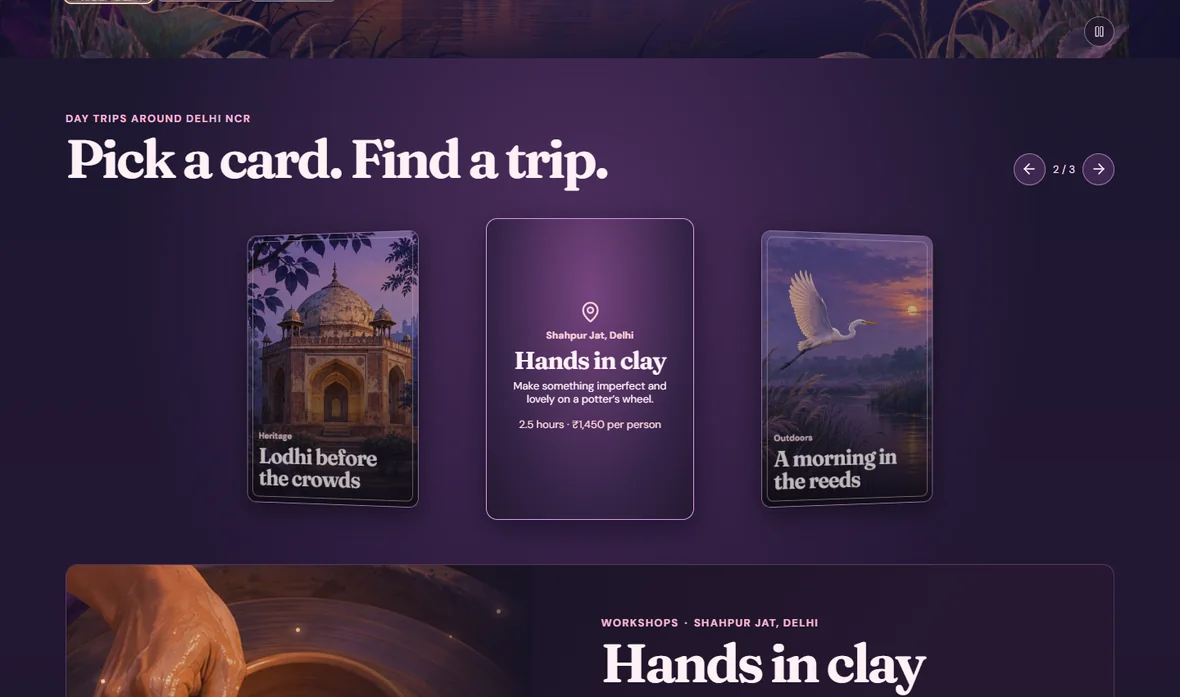
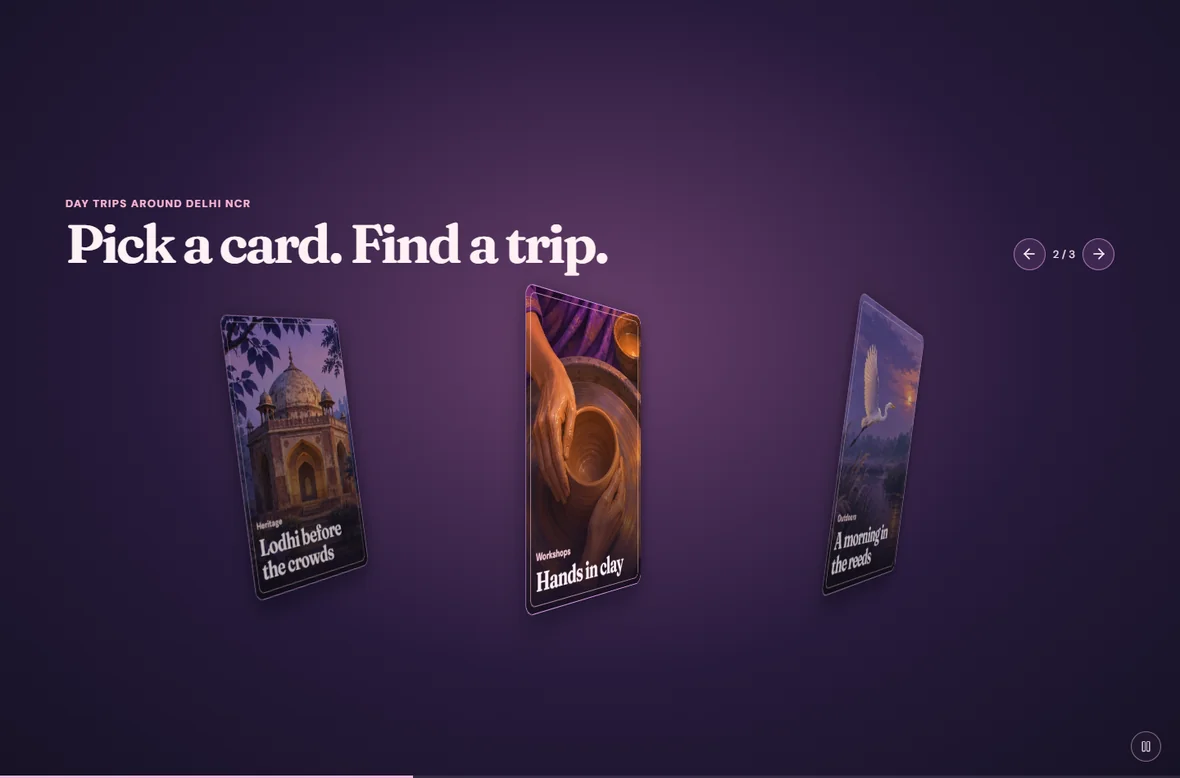
Connect landscape, card rotation and itinerary with scroll

diff --git a/src/scroll-story.css b/src/scroll-story.css
@@ -1,0 +1,152 @@
+.story-stage { position: relative; }
+.story-stage > .motion-control { position: absolute; top: 14px; bottom: auto; z-index: 4; }
+.deck-scroll-turn { position: absolute; inset: 0; display: block; transform-style: preserve-3d; border-radius: inherit; }
+.scroll-progress { display: none; }
+.scroll-story {
+  --landscape-exit: 0;
+  --note-entry: 0;
+  --card-turn: 0;
+  --story-progress: 0;
+  height: 380svh;
+  background: #1c142f;
+}
+.scroll-story .story-stage {
+  position: sticky; top: 0; height: 100svh; overflow: clip; isolation: isolate;
+  background: radial-gradient(ellipse at 50% 43%, #69406b, #271a3b 55%, #161225);
+}
+.scroll-story .feature {
+  position: absolute; inset: 0; height: 100%; min-height: 0;
+  opacity: calc(1 - var(--landscape-exit));
+  transform: translate3d(0, calc(var(--landscape-exit) * -13%), 0) scale(calc(1 + var(--landscape-exit) * .14));
+  transform-origin: 40% 46%;
+  will-change: transform, opacity;
+}
+.scroll-story .feature-layout { height: 100%; min-height: 0; }
+.scroll-story .feature-copy {
+  transform: translate3d(0, calc(var(--landscape-exit) * -100px), 0);
+}
+.scroll-story .scene-reeds {
+  translate: 0 calc(var(--landscape-exit) * 130px);
+}
+.scroll-story .feature[inert], .scroll-story .deck-chapter[inert], .scroll-story .field-note[inert] { pointer-events: none; }
+.scroll-story .trip-deck {
+  position: absolute; inset: 0; height: 100%; overflow: visible;
+  background: transparent; opacity: var(--landscape-exit);
+  transform: translate3d(0, calc((1 - var(--landscape-exit)) * 22%), 0);
+  will-change: opacity, transform;
+}
+.scroll-story .deck-shell { height: 100%; padding-block: 0; position: relative; }
+.scroll-story .deck-chapter {
+  position: absolute; inset: 0; display: flex; flex-direction: column;
+  justify-content: center; padding-block: 55px 35px;
+  opacity: calc(1 - var(--note-entry));
+  transform: translate3d(0, calc(var(--note-entry) * -80px), 0) scale(calc(1 - var(--note-entry) * .08));
+  will-change: opacity, transform;
+}
+.scroll-story .deck-cards {
+  margin: clamp(18px,4vh,48px) 0 0; animation: none;
+  transform: none; flex: 0 1 auto;
+}
+.scroll-story .deck-card { width: min(21vw, 250px, 29svh); }
+.scroll-story .deck-card:nth-child(1) {
+  transform: translate3d(calc((1 - var(--landscape-exit)) * -90px), 0, 0) rotateZ(calc((1 - var(--landscape-exit)) * -16deg)) rotateY(-14deg) scale(.9);
+}
+.scroll-story .deck-card:nth-child(3) {
+  transform: translate3d(calc((1 - var(--landscape-exit)) * 90px), 0, 0) rotateZ(calc((1 - var(--landscape-exit)) * 16deg)) rotateY(14deg) scale(.9);
+}
+.scroll-story .deck-card[data-active=true] { filter: saturate(1) brightness(1); }
+.scroll-story .deck-scroll-turn {
+  transform: rotateY(calc(var(--card-turn) * 360deg));
+  will-change: transform;
+}
+.scroll-story .deck-card:nth-child(1) .deck-scroll-turn { transform: rotateY(calc(var(--card-turn) * 290deg)); }
+.scroll-story .deck-card:nth-child(3) .deck-scroll-turn { transform: rotateY(calc(var(--card-turn) * 420deg)); }
+.scroll-story .field-note {
+  position: absolute; inset: 0; margin: auto; height: min(63svh,570px); min-height: 0;
+  opacity: var(--note-entry); border: 0; overflow: visible;
+  background: transparent; animation: none;
+  transform: translate3d(0, calc((1 - var(--note-entry)) * 130px), 0);
+  will-change: transform, opacity;
+}
+.scroll-story .field-note-visual {
+  height: 100%; overflow: hidden; border: 1px solid #dca9df75; border-radius: 20px;
+  transform: perspective(900px) rotateY(calc((1 - var(--note-entry)) * -40deg)) scale(calc(.8 + var(--note-entry) * .2));
+  box-shadow: 0 15px 75px #e3a77822;
+}
+.scroll-story .field-note-visual::after { background: linear-gradient(0deg, #23172e70, transparent 55%); }
+.scroll-story .field-note-info { padding-right: 0; }
+.scroll-story .motion-control { position: absolute; top: auto; bottom: 20px; right: 23px; }
+.scroll-story .scroll-progress {
+  display: block; position: absolute; bottom: 0; left: 0; height: 3px; width: 100%;
+  background: #f5dbf519; pointer-events: none;
+}
+.scroll-progress span {
+  display: block; height: 100%; transform: scaleX(var(--story-progress)); transform-origin: left; background: #f6b8da;
+}
+.motion-story.motion-off .story-stage > .motion-control { position: fixed; bottom: 17px; top: auto; }
+@supports (animation-timeline: view()) {
+  .trip-card, .destination-detail, .utility-page .tray-item {
+    animation: section-arrive linear both;
+    animation-timeline: view(); animation-range: entry 0% entry 30%;
+  }
+  @keyframes section-arrive { from { opacity: .3; translate: 0 28px; } to { opacity: 1; translate: 0 0; } }
+  .destination-cover {
+    animation: destination-drift linear both;
+    animation-timeline: view(); animation-range: exit 0% exit 100%;
+  }
+  @keyframes destination-drift { to { translate: 0 16%; scale: 1.08; } }
+}
+@media (max-width: 620px) {
+  .scroll-story { height: 340svh; }
+  .scroll-story .feature-layout { padding-block: 92px 66px; align-content: center; }
+  .scroll-story .feature-pager { max-width: 320px; justify-self: start; }
+  .scroll-story .deck-chapter { padding-block: 30px 45px; }
+  .scroll-story .deck-heading h2 { font-size: clamp(29px,8vw,45px); }
+  .scroll-story .deck-cards { margin-top: 22px; }
+  .scroll-story .deck-card { width: min(64vw,34svh); }
+  .scroll-story .deck-card[data-active=false] { display: none; }
+  .scroll-story .field-note { height: min(82svh,690px); gap: 12px; grid-template-rows: minmax(0,1fr) auto; }
+  .scroll-story .field-note-visual { min-height: 0; width: min(52vw,220px); justify-self: center; }
+  .scroll-story .field-note-info { padding: 0 0 31px; }
+  .scroll-story .field-note-info h3 { font-size: 34px; }
+  .scroll-story .field-note-info > p:not(.section-kicker) { line-height: 1.4; font-size: 14px; }
+  .scroll-story .field-note-info .section-kicker { font-size: 11px; }
+  .scroll-story .field-note-meta { font-size: 13px; }
+}
+@media (max-height: 600px) and (min-width: 621px) {
+  .scroll-story .feature h1 { font-size: min(12vh,75px); }
+  .scroll-story .feature-copy > p:not(.section-kicker) { margin-block: 10px; }
+  .scroll-story .feature-layout { padding-block: 60px 30px; }
+  .scroll-story .deck-heading h2 { font-size: 38px; }
+}
+@media (prefers-reduced-motion: reduce) {
+  .trip-card, .destination-detail, .utility-page .tray-item, .destination-cover { animation: none; }
+}
+
+body { background: #1b172c; color: #fff0f8; }
+.site-header:not(.site-header--story) { background: #211a33f5; color: #fff0f8; border-color: #b995c240; }
+.site-header:not(.site-header--story) .brand-mark { background: #382344; color: #ffd1e2; }
+.site-header:not(.site-header--story) .trip-nav { border-color: #bf9dc875; }
+.site-header:not(.site-header--story) .trip-nav:hover { background: #503451; }
+.explore-heading p, .site-footer, .site-footer span:first-child { color: #e9cfe2; }
+.explore .filters button { border-color: #a784b38c; color: #f6e2ed; }
+.explore .filters button:hover { background: #523551; }
+.explore .filters button[aria-pressed=true] { background: #f9dceb; color: #30203b; border-color: #f9dceb; }
+.explore .search, .explore .date-filter { background: #2e233f; border-color: #a686b570; color: #f0d4e8; }
+.explore .search input, .explore .date-filter select { color: #f6eaf1; }
+.explore .search input::placeholder { color: #c8b4cc; }
+.explore .date-filter option { background: #2e233f; }
+.empty { color: #f0d8e6; border-color: #ab87b65e; }
+.site-footer { border-color: #d8b7e53d; }
+.destination-detail .destination-copy > p,
+.destination-detail .timeline, .destination-detail .included-list,
+.destination-detail .detail-meta span { color: #ead5e3; }
+.destination-detail .timeline li::marker { color: #efb3d0; }
+.destination-detail .reservation-card { background: #30233e; color: #fff0f7; border-color: #bc8bca61; }
+.destination-detail .reservation-price span { color: #ead5e3; }
+.utility-page .tray-item { border-color: #ae87bc52; }
+.utility-page .tray-item p { color: #ead5e3; }
+.utility-page .cancel { color: #ffd0db; }
+.utility-page .booking-status { color: #452b4f; }
+.utility-page .operator-section, .utility-page .operator-records li { border-color: #b48ac249; }
+.dialog { color: #291d35; }

diff --git a/src/Feature.tsx b/src/Feature.tsx
@@ -1,7 +1,8 @@
-import { useState, type PointerEvent } from 'react'
+import { useRef, useState, type PointerEvent } from 'react'
 import { ArrowDown, ArrowLeft, ArrowRight, ArrowUpRight, Clock3, MapPin, Pause, Play } from 'lucide-react'
 import { money, trips, type Trip } from './trips'
 
+import { useScrollStory } from './useScrollStory'
 import { Lights, TripDeck } from './TripDeck'
 
 const covers = [import.meta.env.BASE_URL + 'images/delhi-twilight.webp', trips[1].image, trips[2].image]
@@ -10,6 +11,18 @@ export function Feature({ onExplore, onOpen }: { onExplore: () => void; onOpen: 
   const [current, setCurrent] = useState(0)
   const trip = trips[current]
   const [paused, setPaused] = useState(false)
+  const story = useRef<HTMLDivElement>(null)
+  useScrollStory(story, paused)
+
+  function showCards() {
+    const element = story.current
+    if (element?.classList.contains('scroll-story')) {
+      const top = window.scrollY + element.getBoundingClientRect().top
+      window.scrollTo({ top: top + (element.offsetHeight - innerHeight) * .44, behavior: 'smooth' })
+    } else {
+      document.getElementById('trip-deck')?.scrollIntoView()
+    }
+  }
 
   function step(direction: number) {
     setCurrent(index => (index + direction + trips.length) % trips.length)
@@ -26,7 +39,8 @@ export function Feature({ onExplore, onOpen }: { onExplore: () => void; onOpen: 
   }
 
   return (
-    <div className={'motion-story' + (paused ? ' motion-off' : '')}>
+    <div ref={story} className={'motion-story' + (paused ? ' motion-off' : '')}>
+      <div className="story-stage">
       <section className={'feature feature--' + current} aria-labelledby="hero-title" onPointerMove={moveScene}
         onPointerLeave={event => {
           event.currentTarget.style.removeProperty('--scene-x')
@@ -44,7 +58,7 @@ export function Feature({ onExplore, onOpen }: { onExplore: () => void; onOpen: 
             <h1 id="hero-title">Delhi,<br /><em>rediscovered.</em></h1>
             <p>Find small-group walks, workshops and nature escapes around Delhi NCR.</p>
             <a href="#/experiences" className="feature-cta" onClick={onExplore}>Explore trips <ArrowUpRight size={17} /></a>
-            <button type="button" className="chapter-link" onClick={() => document.getElementById('trip-deck')?.scrollIntoView()}>
+            <button type="button" className="chapter-link" onClick={showCards}>
               Trip cards <ArrowDown size={16} />
             </button>
           </div>
@@ -72,10 +86,13 @@ export function Feature({ onExplore, onOpen }: { onExplore: () => void; onOpen: 
             </div>
           </div>
         </div>
-        <button type="button" className="motion-control" aria-label={paused ? 'Resume scene motion' : 'Pause scene motion'} aria-pressed={paused}
-          onClick={() => setPaused(value => !value)}>{paused ? <Play size={15} /> : <Pause size={15} />}</button>
+
       </section>
       <TripDeck onOpen={onOpen} />
+        <button type="button" className="motion-control" aria-label={paused ? 'Resume scene motion' : 'Pause scene motion'} aria-pressed={paused}
+          onClick={() => setPaused(value => !value)}>{paused ? <Play size={15} /> : <Pause size={15} />}</button>
+        <div className="scroll-progress" aria-hidden="true"><span /></div>
+      </div>
     </div>
   )
 }

diff --git a/src/useScrollStory.ts b/src/useScrollStory.ts
@@ -1,0 +1,59 @@
+import { useEffect, type RefObject } from 'react'
+
+const clamp = (value: number) => Math.min(1, Math.max(0, value))
+const smooth = (value: number) => value * value * (3 - 2 * value)
+
+/** One native scroll range drives all three scenes without changing document scroll. */
+export function useScrollStory(ref: RefObject<HTMLDivElement | null>, paused: boolean) {
+  useEffect(() => {
+    const story = ref.current
+    if (!story) return
+    const reduced = window.matchMedia('(prefers-reduced-motion: reduce)')
+    let frame = 0
+    const hero = story.querySelector<HTMLElement>('.feature')
+    const cards = story.querySelector<HTMLElement>('.deck-chapter')
+    const note = story.querySelector<HTMLElement>('.field-note')
+    const deck = story.querySelector<HTMLElement>('.trip-deck')
+
+    function render() {
+      frame = 0
+      if (!story) return
+      const enabled = !paused && !reduced.matches
+      story.classList.toggle('scroll-story', enabled)
+      if (!enabled) {
+        if (deck) deck.style.removeProperty('pointer-events')
+        for (const panel of [hero, cards, note]) if (panel) panel.inert = false
+        return
+      }
+      const rect = story.getBoundingClientRect()
+      const range = Math.max(1, story.offsetHeight - window.innerHeight)
+      const progress = clamp(-rect.top / range)
+      const toCards = smooth(clamp((progress - .08) / .25))
+      const toNote = smooth(clamp((progress - .64) / .25))
+      const rotate = clamp((progress - .30) / .32)
+      story.style.setProperty('--landscape-exit', String(toCards))
+      story.style.setProperty('--note-entry', String(toNote))
+      story.style.setProperty('--card-turn', String(rotate))
+      story.style.setProperty('--story-progress', String(progress))
+      if (hero) hero.inert = toCards > .55
+      if (cards) cards.inert = toCards < .55 || toNote > .55
+      if (note) note.inert = toNote < .55
+      if (deck) deck.style.pointerEvents = toCards < .55 ? 'none' : 'auto'
+    }
+    function request() {
+      if (!frame) frame = requestAnimationFrame(render)
+    }
+    render()
+    window.addEventListener('scroll', request, { passive: true })
+    window.addEventListener('resize', request)
+    reduced.addEventListener('change', request)
+    return () => {
+      window.removeEventListener('scroll', request)
+      window.removeEventListener('resize', request)
+      reduced.removeEventListener('change', request)
+      cancelAnimationFrame(frame)
+      story.classList.remove('scroll-story')
+      for (const panel of [hero, cards, note]) if (panel) panel.inert = false
+    }
+  }, [ref, paused])
+}

diff --git a/tests/booking.spec.ts b/tests/booking.spec.ts
@@ -129,3 +129,27 @@ test('fits a narrow screen and respects reduced motion', async ({ page }) => {
   await page.getByRole('button', { name: 'Reveal Lodhi before the crowds' }).click()
   await expect(page.getByRole('button', { name: 'Reveal Lodhi before the crowds' })).toHaveAttribute('aria-pressed', 'true')
 })
+
+test('scrolls smoothly from landscape to rotating cards to itinerary and back', async ({ page }) => {
+  await page.goto('/')
+  const story = page.locator('.scroll-story')
+  await expect(story).toHaveCount(1)
+  async function scrollToProgress(progress: number) {
+    await story.evaluate((element, fraction) => {
+      document.documentElement.style.scrollBehavior = 'auto'
+      window.scrollTo(0, window.scrollY + element.getBoundingClientRect().top + (element.clientHeight - innerHeight) * fraction)
+    }, progress)
+  }
+  await scrollToProgress(.43)
+  await expect.poll(() => story.evaluate(element => Number(getComputedStyle(element).getPropertyValue('--landscape-exit')))).toBe(1)
+  await expect(page.getByRole('button', { name: 'Next trip card' })).toBeInViewport()
+  const middleTurn = await page.locator('.deck-scroll-turn').first().evaluate(element => getComputedStyle(element).transform)
+  await scrollToProgress(.6)
+  await expect.poll(() => page.locator('.deck-scroll-turn').first().evaluate(element => getComputedStyle(element).transform)).not.toBe(middleTurn)
+  await scrollToProgress(.94)
+  await expect.poll(() => story.evaluate(element => Number(getComputedStyle(element).getPropertyValue('--note-entry')))).toBe(1)
+  await expect(page.getByRole('button', { name: 'View itinerary' })).toBeInViewport()
+  await scrollToProgress(.02)
+  await expect(page.getByRole('heading', { name: 'Delhi, rediscovered.' })).toBeInViewport()
+  await expect(page.locator('.deck-chapter')).toHaveAttribute('inert', '')
+})

diff --git a/src/TripDeck.tsx b/src/TripDeck.tsx
@@ -30,6 +30,7 @@ export function TripDeck({ onOpen }: { onOpen: (trip: Trip) => void }) {
   return (
     <section id="trip-deck" className="trip-deck" aria-labelledby="deck-title">
       <div className="shell deck-shell">
+        <div className="deck-chapter">
         <div className="deck-heading">
           <div>
             <p className="section-kicker">Day trips around Delhi NCR</p>
@@ -46,7 +47,7 @@ export function TripDeck({ onOpen }: { onOpen: (trip: Trip) => void }) {
             <button type="button" key={item.id} className="deck-card"
               data-active={index === active} aria-pressed={index === active && revealed}
               aria-label={'Reveal ' + item.name} onClick={() => flip(index)}>
-              <span className="deck-card-flip">
+              <span className="deck-scroll-turn"><span className="deck-card-flip">
                 <span className="deck-card-face">
                   <img src={illustrations + 'card-' + item.id + '.webp'} alt="" width="360" height="560" loading="lazy" />
                   <span className="deck-card-title"><small>{item.category}</small><strong>{item.name}</strong></span>
@@ -58,9 +59,10 @@ export function TripDeck({ onOpen }: { onOpen: (trip: Trip) => void }) {
                   <span>{item.line}</span>
                   <span>{item.duration} · {money(item.price)} per person</span>
                 </span>
-              </span>
+              </span></span>
             </button>
           ))}
+        </div>
         </div>
         <article className="field-note" key={trip.id}>
           <div className="field-note-visual" aria-hidden="true">

diff --git a/src/main.tsx b/src/main.tsx
@@ -6,5 +6,6 @@ import '@fontsource-variable/fraunces/wght-italic.css'
 import './styles.css'
 import './journeys.css'
 import './motion.css'
+import './scroll-story.css'
 
 createRoot(document.getElementById('root')!).render(<App />)

diff --git a/README.md b/README.md
@@ -6,7 +6,7 @@ Sunday Atlas is a Delhi NCR experience site with a destination catalog, shareabl
 
 ## Design case study
 
-The homepage follows the motion sequence in the [Kamui reference](https://in.pinterest.com/pin/800303796276346241/) with an illustrated parallax scene, a purple 3D trip-card deck, and a darker itinerary panel illuminated by floating lights. The site includes a pause control and respects reduced-motion settings. The [destination reference](https://in.pinterest.com/pin/1032520652057780971/) informed the image-led trip pages, oversized place names, and postcard navigation. The artwork, brand, and layouts are original.
+The homepage uses one scroll sequence that pins the landscape, eases it into rotating trip cards, and then introduces the selected itinerary. Reverse scrolling retraces the sequence. The catalog and destination pages use the same twilight palette and scroll reveals. The homepage follows the motion sequence in the [Kamui reference](https://in.pinterest.com/pin/800303796276346241/) with an illustrated parallax scene, a purple 3D trip-card deck, and a darker itinerary panel illuminated by floating lights. The site includes a pause control and respects reduced-motion settings. The [destination reference](https://in.pinterest.com/pin/1032520652057780971/) informed the image-led trip pages, oversized place names, and postcard navigation. The artwork, brand, and layouts are original.
 
 ![Sunday Atlas illustrated twilight scene](docs/desktop.webp)
 
